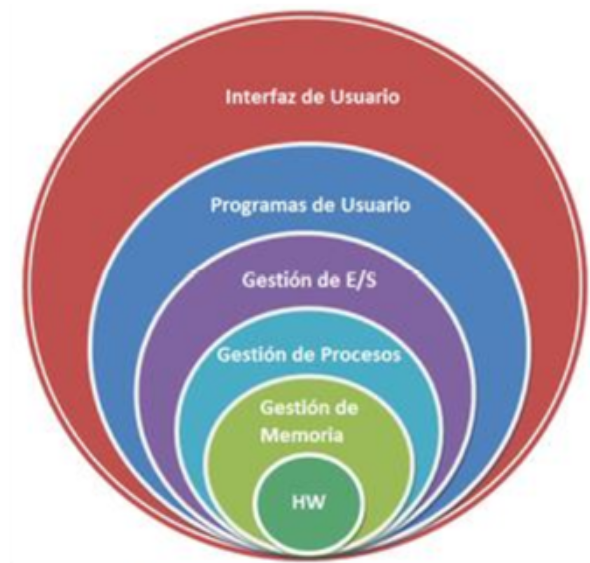
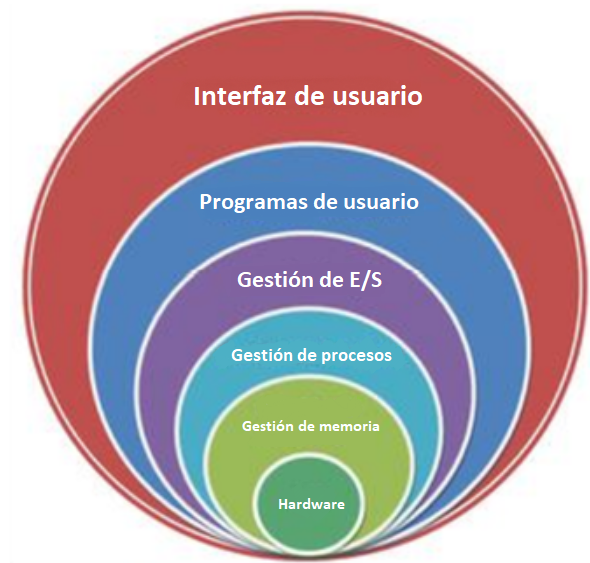
Cambio de imagenes, anexo de concepto a glosario, correccion ortográfica, eliminación de contenido repetido

diff --git a/pages/1-2-fundamentos-del-nucleo-del-sistema-operativo.html b/pages/1-2-fundamentos-del-nucleo-del-sistema-operativo.html
@@ -459,51 +459,7 @@
 
 
 
-                    <!--------------------------------SECTION-------------------->   
-                    <section>
 
-                          <div class="container">
-
-                                <div class="card" id="cardBigTitle">
-                                  <div class="card-body">
-
-                                    <h1>Características del Kernel</h1>
-
-                                  </div>
-                                </div>    
-
-                          </div>
-
-
-                              <div class="container">
-                                <div class="card" id="cardConcept">
-                                  <div class="card-body" id="cardTextConcept">
-                                    <p class="card-text">
-                                        <ul>
-                                            <li ><b>a) Manipulación de interrupciones.</b></li>
-                                            <li ><b>b) Creacion y destruccion de procesos.</b></li>
-                                            <li ><b>c) Cambio de estados de procesos.</b></li>
-                                            <li ><b>d) Planificación de procesos.</b></li>
-                                            <li ><b>e) Sincronización de procesos.</b></li>
-                                            <li ><b>f) Comunicación entre procesos.</b></li>
-                                            <li ><b>g) Manipulación de bloques de control de procesos.</b></li>
-                                            <li ><b>h) Soporte de actividades de entrada y salida.</b></li>
-                                            <li ><b>i) Asignación y liberación del almacenamiento.</b></li>
-                                            <li ><b>j) Sistema de archivos.</b></li>
-                                            <li ><b>k) Mecanismos de llamada y regreso del procedimientos y funciones contables del sistema.</b></li>
-                                        </ul>
-                                    </p>
-                                  </div>
-                                </div>
-                              
-                               
-                              </div>
-
-                          
-
-                        
-                    </section>
-                    <!--------------------------------SECTION--------------------> 
 
 
                     <!--------------------------------SECTION--------------------> 

diff --git a/pages/glosario.html b/pages/glosario.html
@@ -247,6 +247,24 @@
                                         <!--------------------------------A-------------------->
                                         
                                         <!--------------------------------B-------------------->
+                                        <li>
+                                            
+                                          <div class="concepto" >
+
+                                              <p class="conceptoTitle">
+                                                  <b>
+                                                      BSP (Board Support Package)
+                                                  </b>
+                                              </p>
+
+                                              <p class="definicion">
+                                                En español, el paquete de soporte para placa, es la capa de software que contiene controladores específicos de hardware y otras rutinas que permiten que un sistema operativo en particular.
+                                              </p>
+
+                                          </div>
+                                          
+                                          
+                                         </li>
                                         <!--------------------------------B-------------------->
 
                                         <!--------------------------------C-------------------->
@@ -382,6 +400,8 @@
                                         <!--------------------------------O-------------------->
 
                                         <!--------------------------------P-------------------->
+                                         
+
                                         <li>
                                             
                                           <div class="concepto" >

diff --git a/pages/iconos-e-imagenes.html b/pages/iconos-e-imagenes.html
@@ -392,7 +392,7 @@
 
                                     <div class="text-center">
                                       <div class="img-fluid">
-                                        <img src="../images/fig_6_modelo_jerarquico.png" style="width: 45%;">
+                                        <img src="../images/fig_6_modelo_jerarquico.png" style="width: 55%;">
                                         <p>
                                           <b>Figura 6. Modelo jerárquico de un sistema operativo. Extraída de: NÚCLEO DEL SISTEMA OPERATIVO, por Wisther Socas, <a href="https://issuu.com/wisthersocas/docs/wisther.socas.27.049.258.antolog_a/s/26431683">https://issuu.com/wisthersocas/docs/wisther.socas.27.049.258.antolog_a/s/26431683</a>.</b>
                                         </p>

diff --git a/pages/1-1-3-tipos-monolítico-por-capas-micro-núcleo-máquina-virtual.html b/pages/1-1-3-tipos-monolítico-por-capas-micro-núcleo-máquina-virtual.html
@@ -617,7 +617,7 @@
                                   <div class="accordion-item">
                                     <h2 class="accordion-header" id="headingSix">
                                       <button class="accordion-button collapsed" id="accordion-btn1" type="button" data-bs-toggle="collapse" data-bs-target="#collapseSix" aria-expanded="false" aria-controls="collapseSix">
-                                        Sistemas operativos dustribuidos
+                                        Sistemas operativos distribuidos
                                       </button>
                                     </h2>
                                     <div id="collapseSix" class="accordion-collapse collapse" aria-labelledby="headingSix" data-bs-parent="#accordionExample">
